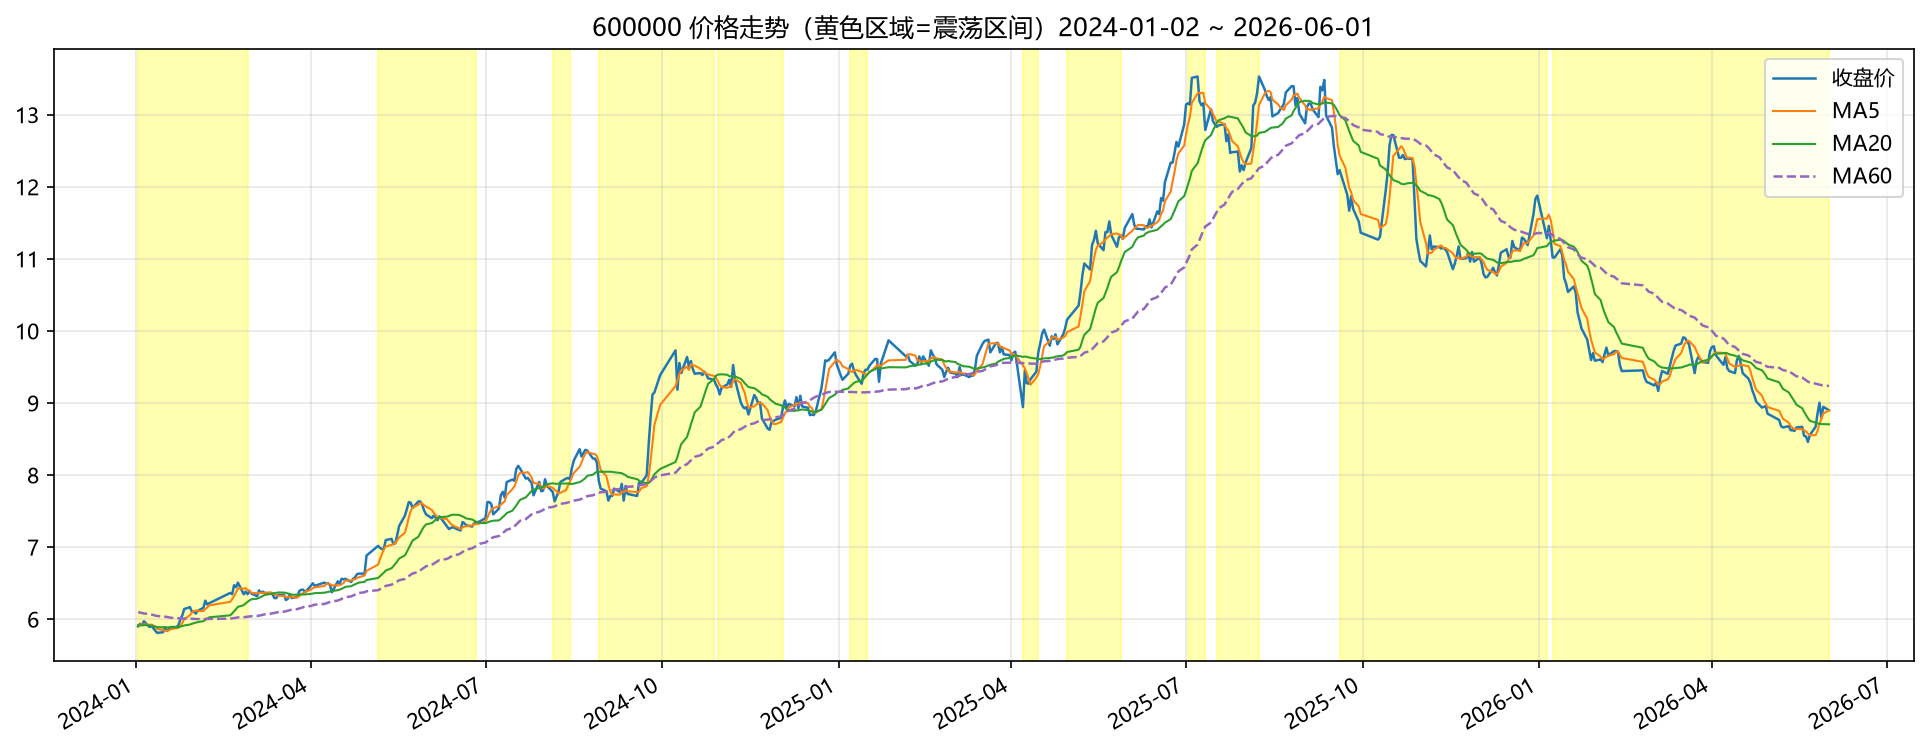
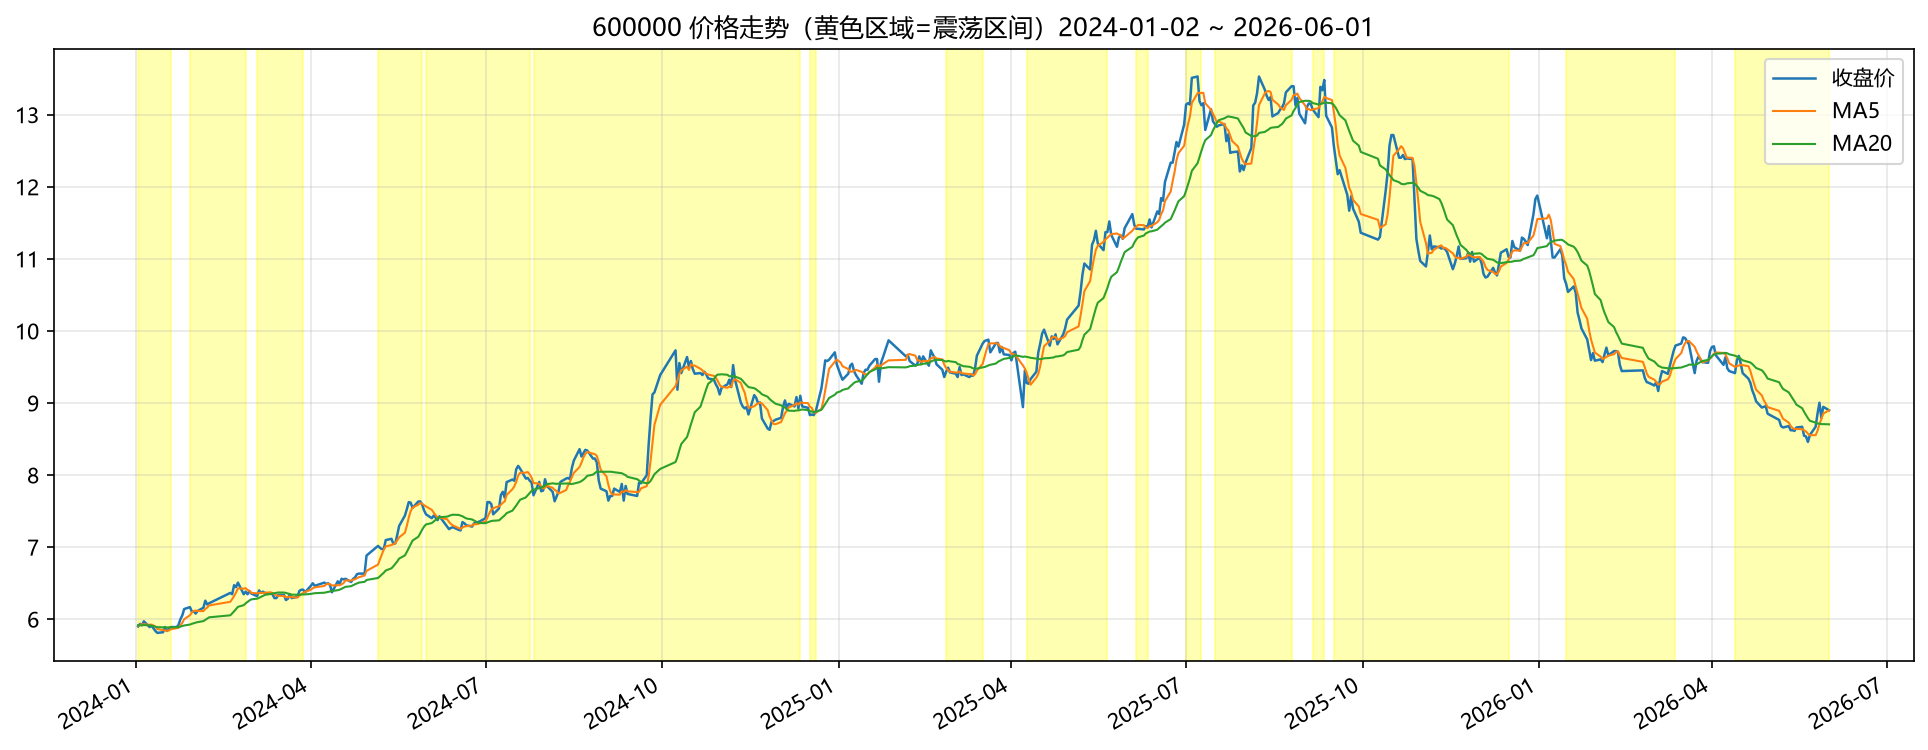
完善

diff --git a/indicators/basic.py b/indicators/basic.py
@@ -111,7 +111,7 @@ def compute_all(
     vol_ma_periods=(5, 10),
     thresh_window: int = 252,
     turn_window: int = 60,
-    trend_ma: int = 60,
+    trend_ma: int = 20,
     slope_window: int = 5,
     resid_window: int = 20,
     resid_thresh_window: int = 250,
@@ -120,7 +120,9 @@ def compute_all(
     """统一指标入口：计算全部指标列并追加到 DataFrame，返回新 DataFrame。
 
     :param df: loader 返回的标准行情 DataFrame（含 open/high/low/close/volume/turnover）
-    :param slope_threshold: MA60 5 日斜率阈值（默认 0，主轴向上即可）
+    :param trend_ma: 趋势主轴均线周期（默认 20）；主轴列名为 ma{trend_ma}、
+        ma{trend_ma}_slope5，斜率与残差波动率均围绕该主轴计算
+    :param slope_threshold: 主轴 5 日斜率阈值（默认 0，主轴向上即可）
     :return: 追加全部指标列的 DataFrame（缺失数据以 NaN 填充，不会报错）
 
     新增列：
@@ -131,8 +133,8 @@ def compute_all(
         upper, middle, lower, bbw  布林带 + 带宽
         ma5_vol, ma10_vol          量能均线
         turnover_pct               60 日换手率分位数
-        ma60, ma60_slope5          趋势主轴 MA60 及其 5 日斜率
-        resid_vol20                20 日残差波动率（偏离 MA60 的滚动标准差）
+        ma20, ma20_slope5          趋势主轴（默认 MA20）及其 5 日斜率
+        resid_vol20                20 日残差波动率（偏离趋势主轴的滚动标准差）
         thresh_adx, thresh_atr, thresh_resid_vol, thresh_turnover_low  动态阈值
         is_trend                   趋势判定（True=趋势，False=震荡；NaN 视为震荡）
         tq                         趋势质量打分 0~3
@@ -145,10 +147,11 @@ def compute_all(
     for p in ma_periods:
         out[f"ma{p}"] = ma(out["close"], p)
 
-    # MA60 趋势主轴及其斜率、残差波动率
-    out["ma60"] = ma(out["close"], trend_ma)
-    out["ma60_slope5"] = ma_slope(out["ma60"], slope_window)
-    out["resid_vol20"] = residual_volatility(out["close"], out["ma60"], resid_window)
+    # MA 趋势主轴（默认 MA20）及其斜率、残差波动率
+    axis = f"ma{trend_ma}"
+    out[axis] = ma(out["close"], trend_ma)
+    out[f"{axis}_slope5"] = ma_slope(out[axis], slope_window)
+    out["resid_vol20"] = residual_volatility(out["close"], out[axis], resid_window)
 
     # MACD
     m = macd(out["close"], macd_fast, macd_slow, macd_signal)
@@ -177,9 +180,9 @@ def compute_all(
     # 动态阈值（依赖上方已算出的 adx/atr/resid_vol20）
     add_dynamic_thresholds(out, thresh_window, resid_thresh_window)
 
-    # 趋势主轴判定 is_trend：MA60 5日斜率 > 阈值 且 残差波动率 < 动态阈值；
+    # 趋势主轴判定 is_trend：主轴 MA 5日斜率 > 阈值 且 残差波动率 < 动态阈值；
     # 任一条件不满足（含 NaN）视为震荡，不交易。
-    out["is_trend"] = (out["ma60_slope5"] > slope_threshold) & (
+    out["is_trend"] = (out[f"{axis}_slope5"] > slope_threshold) & (
         out["resid_vol20"] < out["thresh_resid_vol"]
     )
 

diff --git a/analytics/plotter.py b/analytics/plotter.py
@@ -48,10 +48,10 @@ def plot_trend(
     title: str = None,
     figsize: tuple = (16, 6),
 ) -> str:
-    """绘制收盘价走势 + MA5 + MA20 + MA60（虚线），震荡区间用半透明黄色标注。
+    """绘制收盘价走势 + MA5 + MA20，震荡区间用半透明黄色标注。
 
-    :param df: compute_all 输出的 DataFrame（需含 close/ma5/ma20/is_trend 列；
-        含 ma60 列时自动加画 MA60 虚线）。
+    :param df: compute_all 输出的 DataFrame（需含 close/ma5/ma20/is_trend 列）。
+        趋势主轴若存在（由 "_slope5" 列反推）且非 MA5/MA20，会以紫色虚线加画。
         若含 code 列，标题会自动标注股票代码。
         注意：若 df 含预热段，请先切片为回测段再传入，本函数按传入数据原样绘制。
     :param fname: 文件名（不含路径时保存到 analytics/pictures/）。
@@ -70,8 +70,16 @@ def plot_trend(
     ax.plot(df.index, df["close"], label="收盘价", color="#1f77b4", linewidth=1.2)
     ax.plot(df.index, df["ma5"], label="MA5", color="#ff7f0e", linewidth=1.0)
     ax.plot(df.index, df["ma20"], label="MA20", color="#2ca02c", linewidth=1.0)
-    if "ma60" in df.columns:
-        ax.plot(df.index, df["ma60"], label="MA60", color="#9467bd",
+
+    # 趋势主轴：由 "_slope5" 列反推（如 ma60 -> MA60）。
+    # 主轴为 MA5/MA20 时已在上方绘制，不重复；其他周期以紫色虚线加画。
+    axis_col = None
+    for col in df.columns:
+        if col.endswith("_slope5"):
+            axis_col = col[: -len("_slope5")]
+            break
+    if axis_col and axis_col not in ("ma5", "ma20"):
+        ax.plot(df.index, df[axis_col], label=axis_col.upper(), color="#9467bd",
                 linewidth=1.2, linestyle="--")
 
     # 震荡区间（is_trend == False 的连续段）半透明黄色
